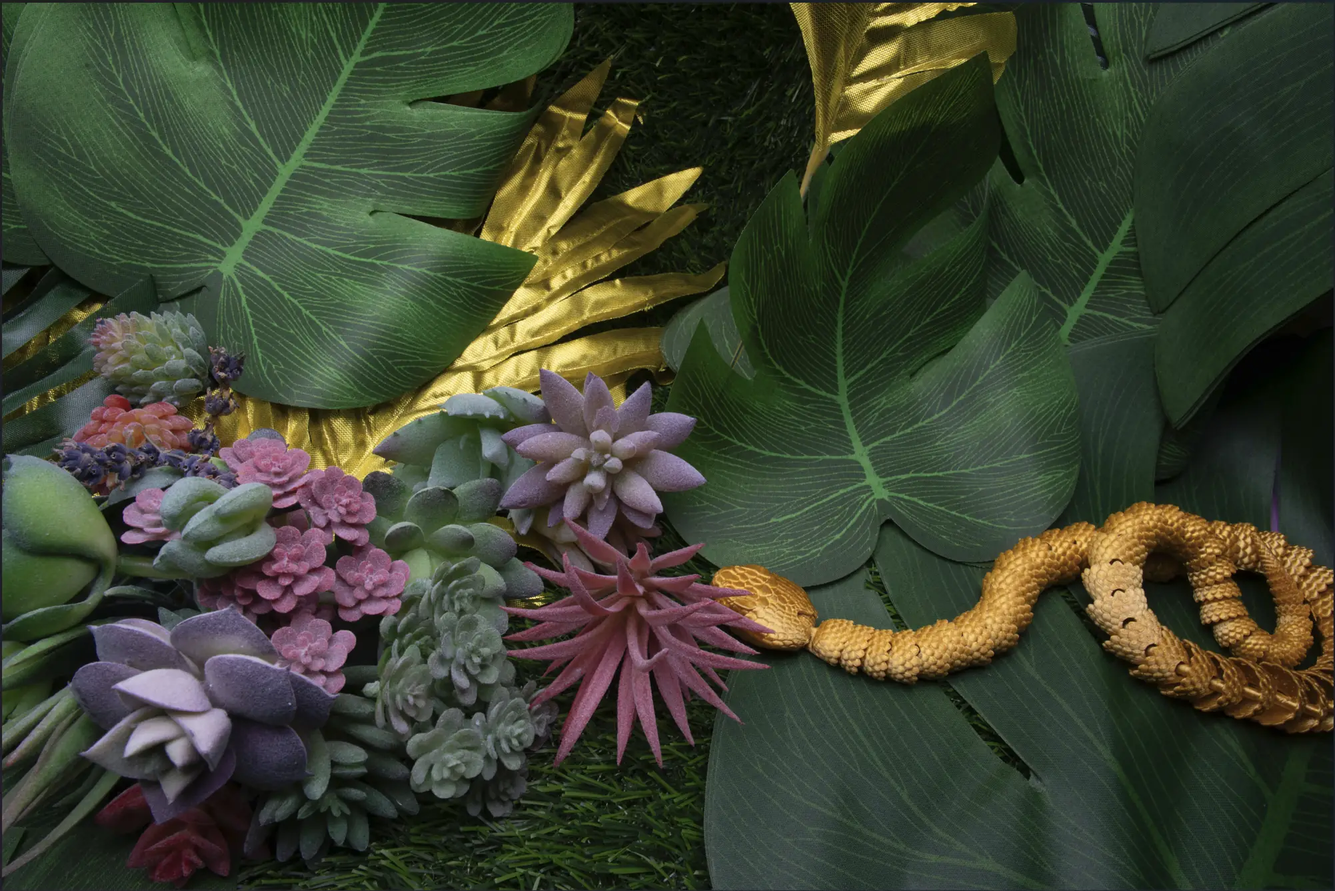
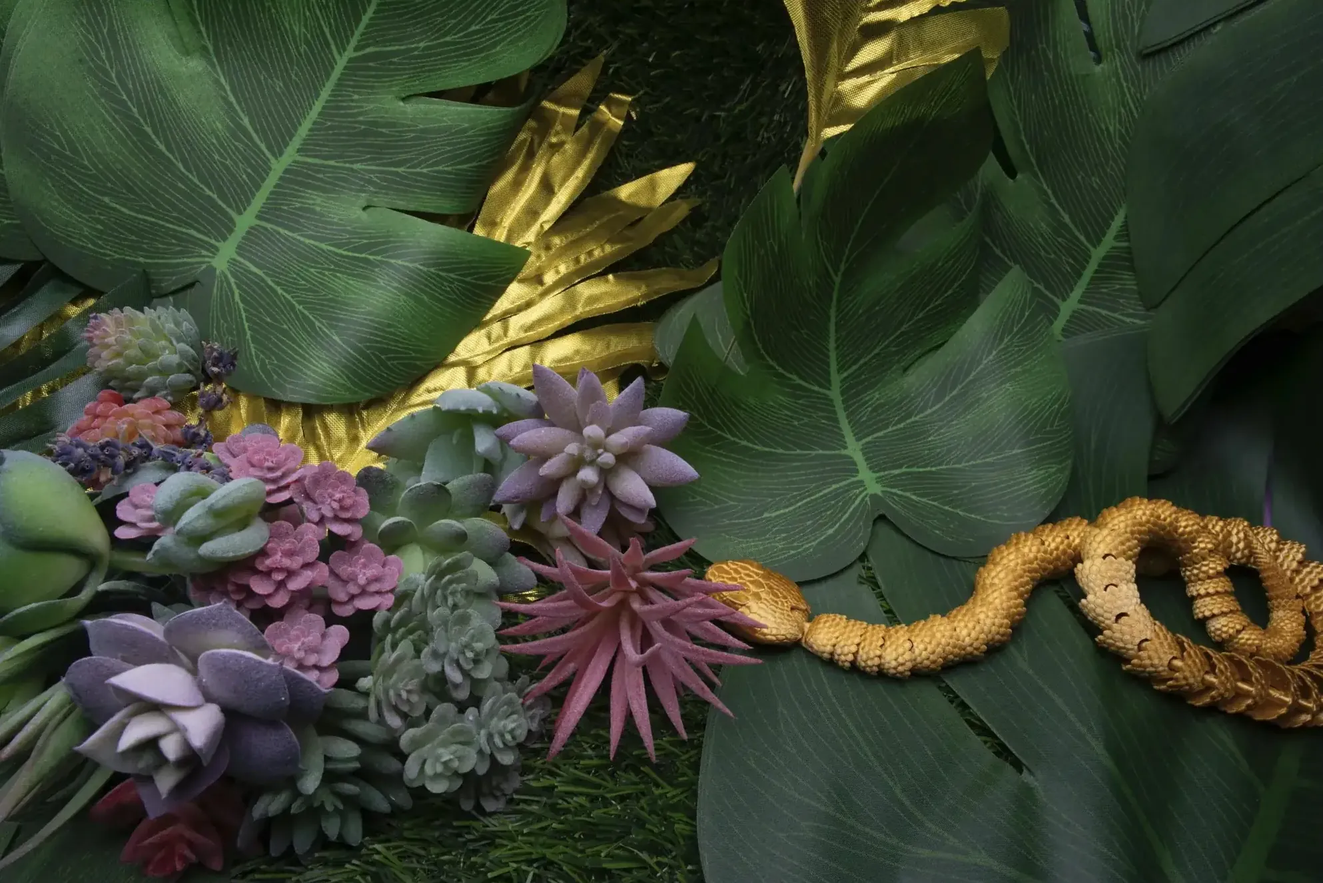
modify images and styling

diff --git a/index.html b/index.html
@@ -549,10 +549,10 @@ document.addEventListener('DOMContentLoaded', () => {
             <strong>MS channels</strong>
             <span id="ds-ms-indicator" class="ds-pill">1 / 16</span>
             <div class="ds-controls">
-              <button class="ds-btn" id="ds-ms-prev"  aria-label="Previous MS channel">◀</button>
+              <button class="ds-btn" id="ds-ms-prev"  aria-label="Previous MS channel">⏮</button>
               <button class="ds-btn" id="ds-ms-play"  aria-label="Play MS channels">▶</button>
               <button class="ds-btn" id="ds-ms-pause" aria-label="Pause MS channels">⏸</button>
-              <button class="ds-btn" id="ds-ms-next"  aria-label="Next MS channel">▶</button>
+              <button class="ds-btn" id="ds-ms-next"  aria-label="Next MS channel">⏭</button>
             </div>
           </figcaption>
         </figure>
@@ -576,10 +576,10 @@ document.addEventListener('DOMContentLoaded', () => {
             <strong>RGB channels</strong>
             <span id="ds-rgb-indicator" class="ds-pill">1 / 3</span>
             <div class="ds-controls">
-              <button class="ds-btn" id="ds-rgb-prev"  aria-label="Previous RGB channel">◀</button>
+              <button class="ds-btn" id="ds-rgb-prev"  aria-label="Previous RGB channel">⏮</button>
               <button class="ds-btn" id="ds-rgb-play"  aria-label="Play RGB channels">▶</button>
               <button class="ds-btn" id="ds-rgb-pause" aria-label="Pause RGB channels">⏸</button>
-              <button class="ds-btn" id="ds-rgb-next"  aria-label="Next RGB channel">▶</button>
+              <button class="ds-btn" id="ds-rgb-next"  aria-label="Next RGB channel">⏭</button>
             </div>
           </figcaption>
         </figure>
@@ -623,10 +623,10 @@ document.addEventListener('DOMContentLoaded', () => {
 
         <div class="p-3" style="display:flex; align-items:center; justify-content:space-between; gap:.5rem; flex-wrap:wrap;">
           <div style="display:flex; gap:.35rem; align-items:center;">
-            <button class="button is-light is-small" id="so-prev"  aria-label="Previous scene">◀</button>
+            <button class="button is-light is-small" id="so-prev"  aria-label="Previous scene">⏮</button>
             <button class="button is-light is-small" id="so-play"  aria-label="Play">▶</button>
             <button class="button is-light is-small" id="so-pause" aria-label="Pause">⏸</button>
-            <button class="button is-light is-small" id="so-next"  aria-label="Next scene">▶</button>
+            <button class="button is-light is-small" id="so-next"  aria-label="Next scene">⏭</button>
           </div>
           <span id="so-indicator" style="background:#e2e8f0; border-radius:999px; padding:2px 10px; font-size:.85rem;">
             1 / 28

diff --git a/static/css/index.css b/static/css/index.css
@@ -297,16 +297,28 @@ body {
 
 #scenes-overview .so-stage{
   position: relative;
-  overflow: hidden;
-  aspect-ratio: 1080 / 736;    /* key line */
+  aspect-ratio: 993 / 643;
+  overflow: visible;                 /* allow shadow to show outside */
 }
 
+/* center image; let it scale to fit */
 #scenes-overview .so-img{
-  position: absolute; inset: 0;
-  width: 100%; height: 100%;
-  object-fit: contain;         /* or 'cover' if you prefer */
-  opacity: 0; transition: opacity 320ms ease;
+  position: absolute; inset: 0;      /* center via auto margins */
+  margin: auto;
+  max-width: 95%;
+  max-height: 95%;
+  width: auto; height: auto;         /* keep natural ratio */
+  opacity: 0;
+  transition: opacity 1800ms ease;   /* nice slow fade */
+  border-radius: 12px;               /* optional rounded corners */
 }
+
+/* only the visible frame gets the shadow */
+#scenes-overview .so-img.is-active{
+  opacity: 1;
+  /* box-shadow: 0 18px 36px rgba(0,0,0,.35), 0 6px 12px rgba(0,0,0,.25); */
+}
+
 #scenes-overview .so-img.is-active{ opacity: 1; }
 
 @media (prefers-reduced-motion: reduce){

diff --git a/main.js b/main.js
@@ -505,7 +505,7 @@ class Sample_viewer{
       base: 'assets/dataset/smaples',
       pattern: '{nn}.webp',
       count: 28,
-      interval: 3000
+      interval: 4000
     }, opts || {});
 
     const root = document.querySelector(cfg.root);
@@ -591,7 +591,7 @@ class Sample_viewer{
     initScenesOverview({
       // if you converted images, switch pattern to 's{nn}.webp'
       // base: 'assets/scenes_overview', pattern: 's{nn}.webp',
-      interval: 1800, count: 28
+      interval: 4000, count: 28
     });
   });
 })();
